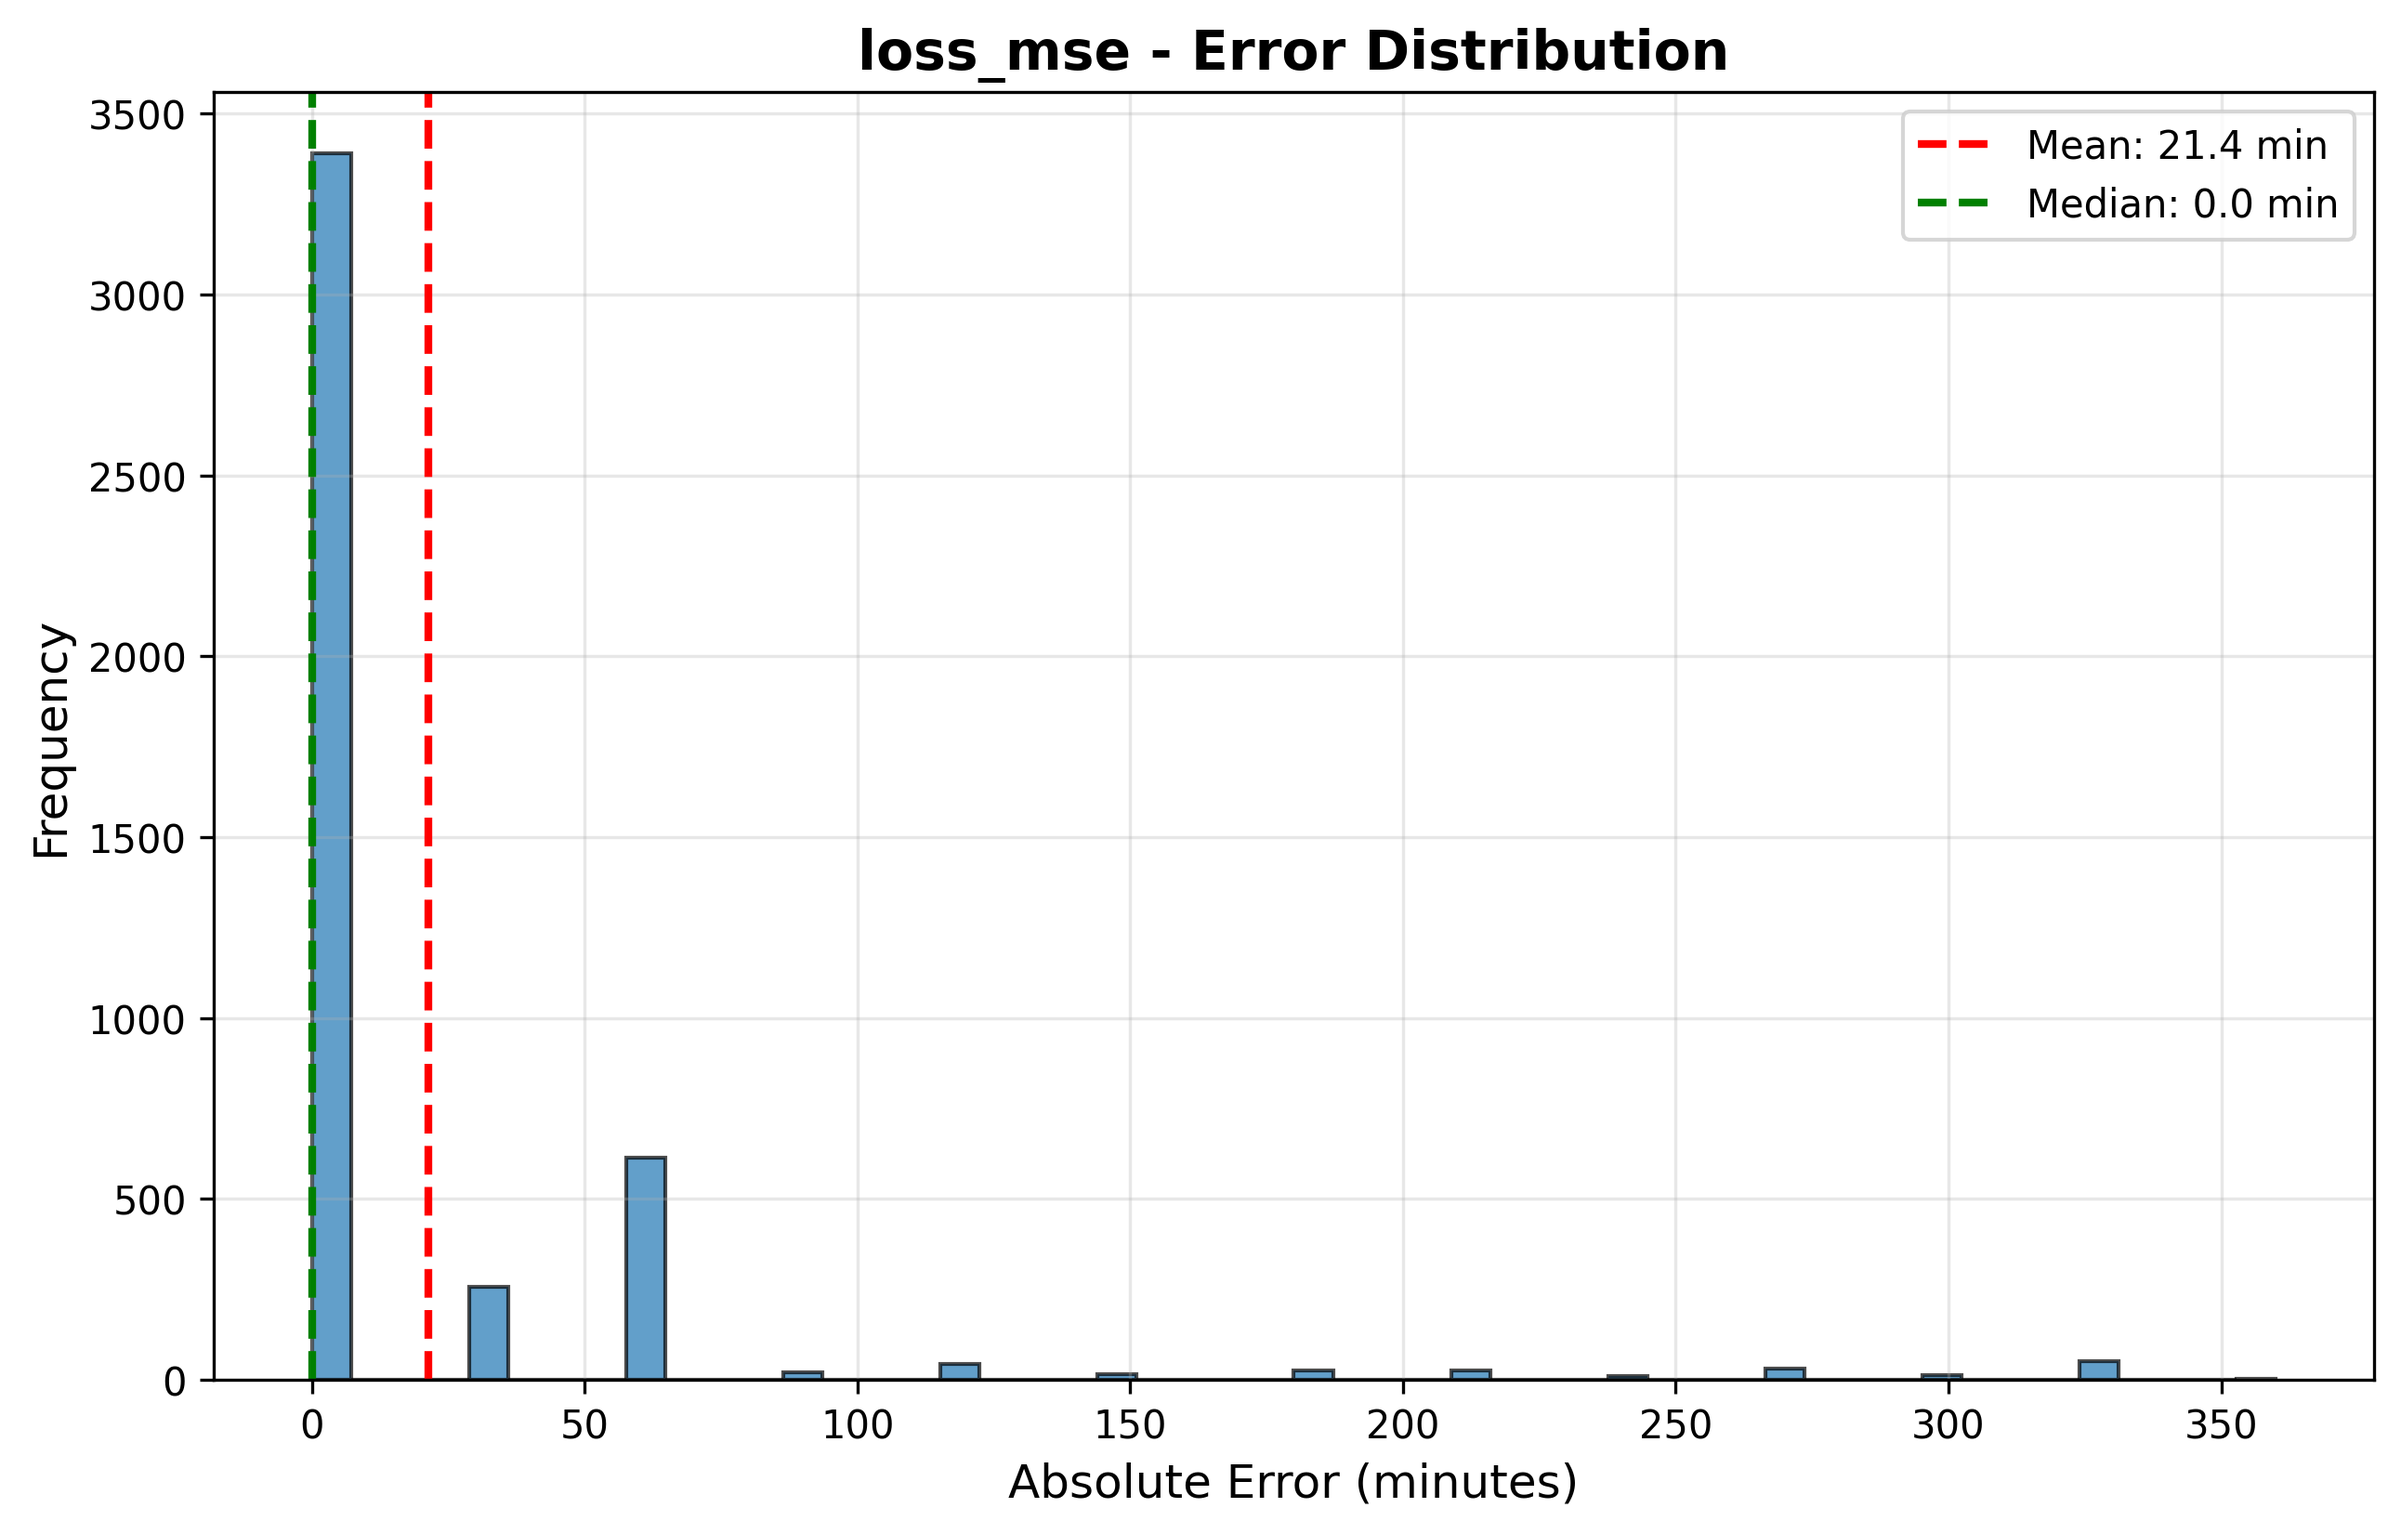
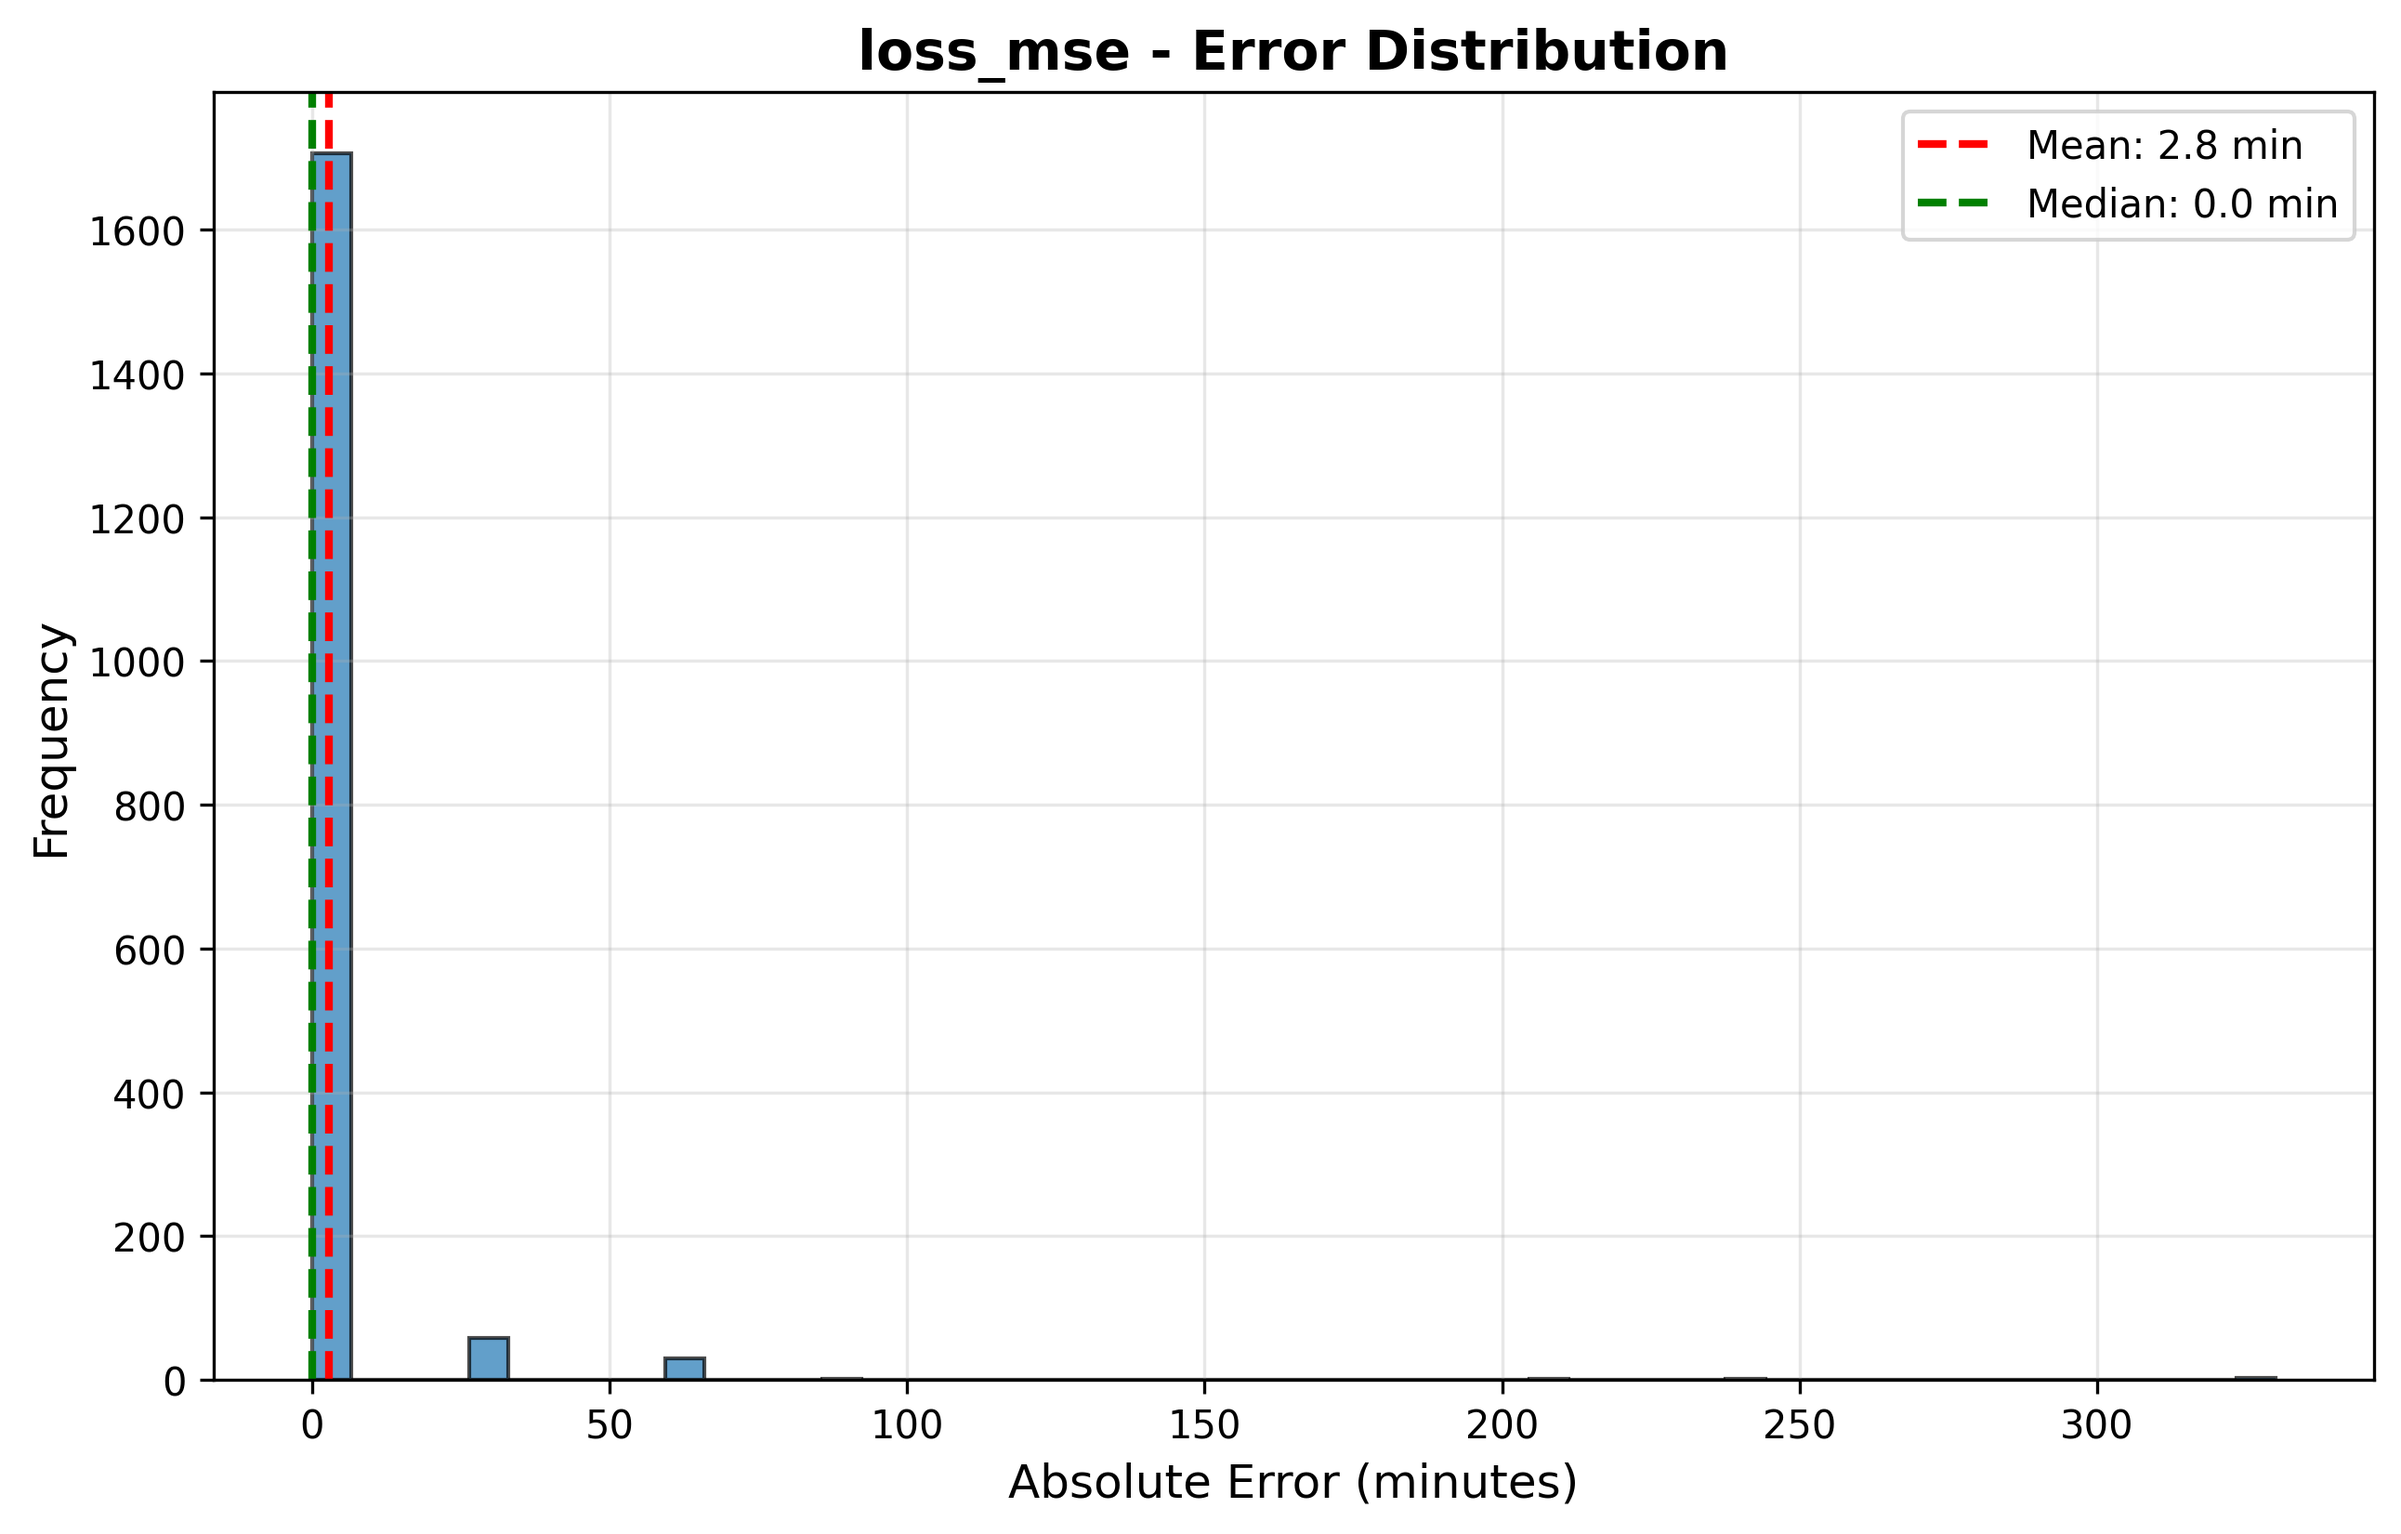
2.1.a done forreal

diff --git a/task2_1_a.py b/task2_1_a.py
@@ -384,11 +384,11 @@ if __name__ == "__main__":
     os.makedirs('saved_models', exist_ok=True)
     
     # run experiments for different loss functions and the easy dataset
-    experiment_cat(loss_function=common_sense_mse, model_name="common_sense_mse", easy=False)
-    experiment_cat(loss_function=common_sense_mse_0, model_name="common_sense_mse_0", easy=False)
-    experiment_cat(loss_function=keras.losses.MSE, model_name="mse", easy=False)
-    experiment_cat(loss_function=keras.losses.categorical_crossentropy, model_name="crossentropy", easy=False)
+    # experiment_cat(loss_function=common_sense_mse, model_name="common_sense_mse", easy=False)
+    # experiment_cat(loss_function=common_sense_mse_0, model_name="common_sense_mse_0", easy=False)
+    # experiment_cat(loss_function=keras.losses.MSE, model_name="mse", easy=False)
+    # experiment_cat(loss_function=keras.losses.categorical_crossentropy, model_name="crossentropy", easy=False)
 
     # run experiments for different loss functions and the hard dataset
-    # experiment_cat(loss_function=common_sense_mse_720, model_name="common_sense_mse_hard", easy=False, num_classes=720)
+    experiment_cat(loss_function=common_sense_mse_720, model_name="common_sense_mse_hard", easy=False, num_classes=720)
     print("Done!")
